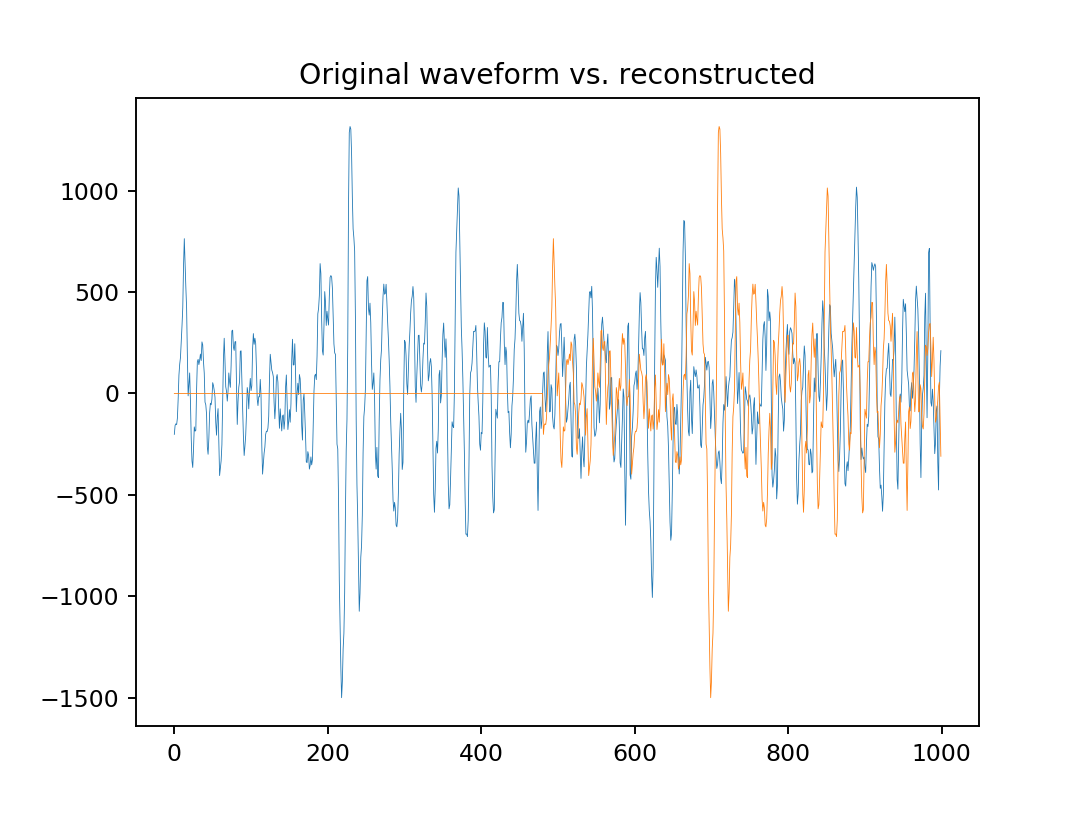
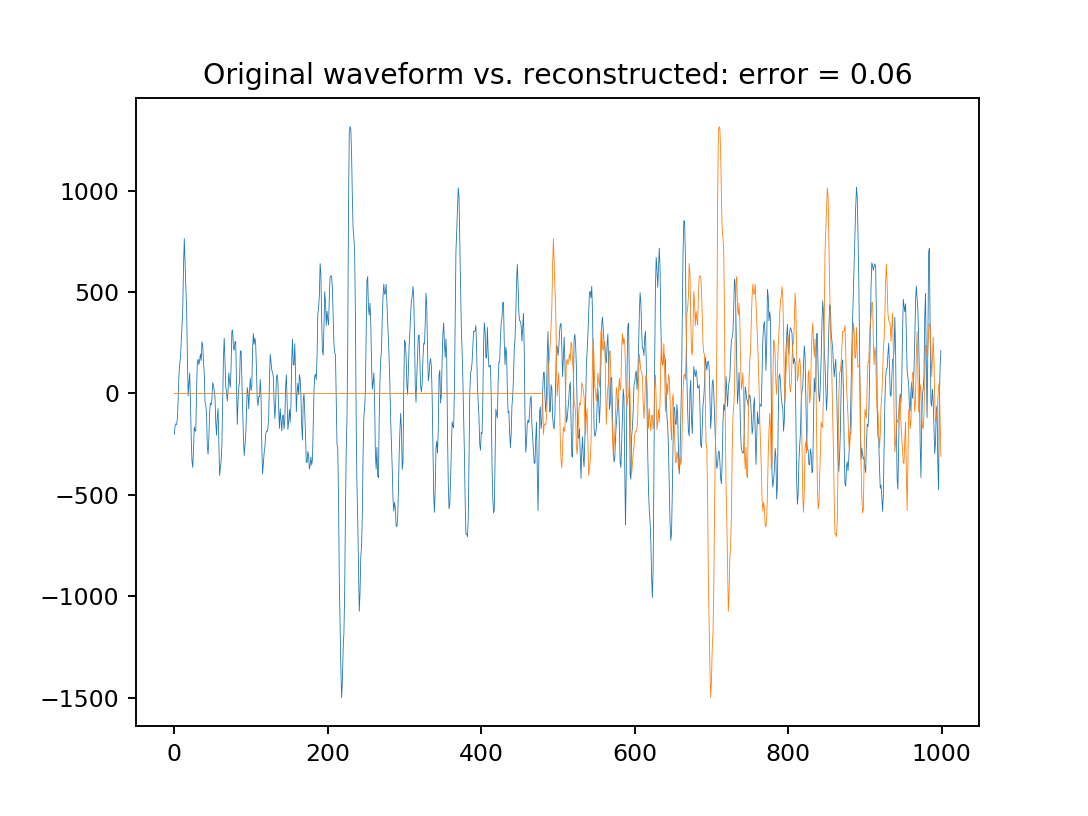
minor changes

Changed region(s): [[0.1875, 0.0613, 0.75, 0.1225], [0.7812, 0.0613, 0.8438, 0.1225]]

diff --git a/Lab4/Lab4/Lab4.py b/Lab4/Lab4/Lab4.py
@@ -71,6 +71,11 @@ for f in files:
 
     delay = 512 - 31;
 
+    # calculate error
+    r = recons[delay:1000 + delay]
+    d = data[0:1000]
+    error = np.amax(r - d)
+
     # plot delay
     plt.figure(dpi=170)
     plt.plot(data[0:1000], linewidth=0.35)
@@ -79,14 +84,9 @@ for f in files:
         plt.clf()
         plt.plot(data[2850:3850], linewidth=0.35)
         plt.plot(recons[2850:3850], linewidth=0.35)
-    plt.title('Original waveform vs. reconstructed')
+    plt.title('Original waveform vs. reconstructed: error = %.2f' %error)
     plt.savefig('./figures/synthesis/' + filename + '_delay.png')
     plt.close()
-
-    r = recons[delay:1000 + delay]
-    d = data[0:1000]
-    error = np.mean((r - d)**2)
-    print(f'maximum error = {error}')
 
 
 
